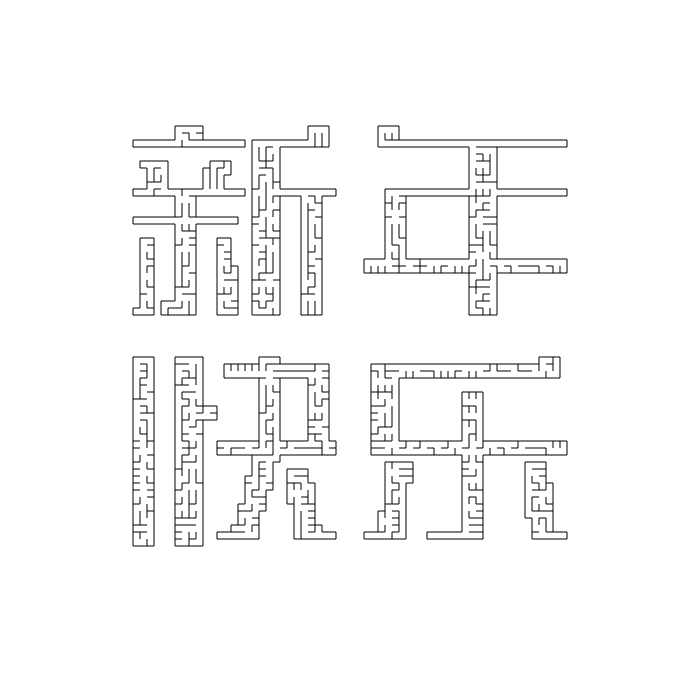
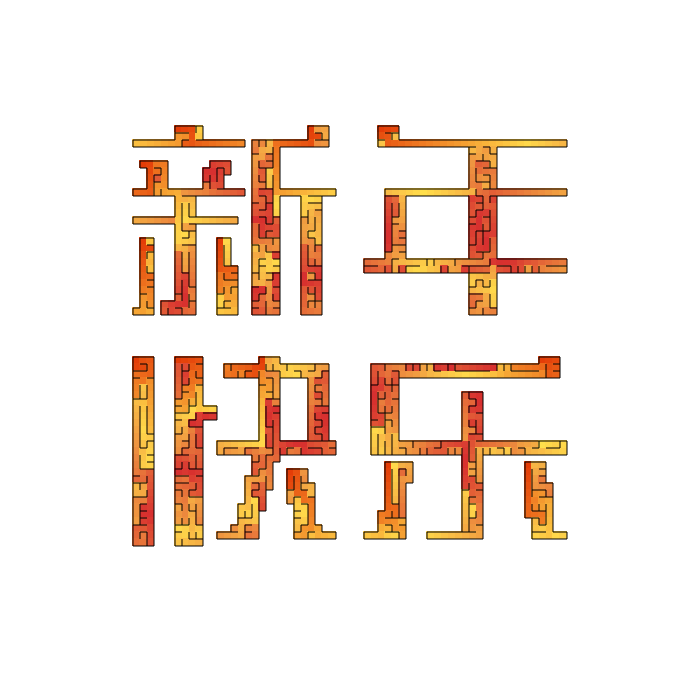
add color

diff --git a/Maze.js b/Maze.js
@@ -3,13 +3,15 @@ class Maze{
         this.N = n;
         this.record = null,
         this.shapeSize = shapeSize;
-        this.colorRecord = null;
-        this.colored = colored,
         this.shape = shape, // square, heart, mask
         this.ratio = null,
         this.offset = null,
         this.start = null,
         this.maskFunc = maskFunc;
+
+        //color
+        this.colorRecord = null;
+        this.colored = colored;
 
         // game information
         this.onGame = false;
@@ -78,10 +80,10 @@ class Maze{
             for (let i = 0; i < n * n; i++) {
                 if(!this.maskFunc(i, n, ratio, offset)){
                     adjList[i] = [];
-                    continue;
-                }
-                counter++;
-                adjList[i] =  this.makeAdjList(this.neighbors(i));     
+                }else{
+                    counter++;
+                    adjList[i] = this.makeAdjList(this.neighbors(i)); 
+                }       
             }
         }
 
@@ -91,17 +93,9 @@ class Maze{
             record[i] = [-1, -1, -1, -1];
         }
 
-        // pick a random node
-        // let start = Math.floor(Math.random() * n * n) % (n * n);
-
-        // while(this.shape !== 'square' && !this.maskFunc(start, n, ratio, offset)){
-        //     start = Math.floor(Math.random() * n * n) % (n * n);
-        // }
-
         const knownNodes = new Uint8Array(n * n);
         const visited = new Uint8Array(n * n);
         const starts = [];
-        // knownNodes[start] = 1;
 
         console.time('spanning tree generation');
 
@@ -158,7 +152,6 @@ class Maze{
             }
         }
 
-        
         console.timeEnd('spanning tree generation');
 
         this.record = record;
@@ -189,16 +182,60 @@ class Maze{
         return [r, g, b];
     }
 
-    renderColor(ctx, colorOption, colors){
+    renderColor(ctx, colors, rate){
+        const n = this.N;
+
         if(colors.length === 1 && this.shape === 'square'){
             const [r, g, b] = Maze.RGB(colors[0]);
             ctx.fillStyle = `rgb(${r}, ${g}, ${b})`;
             ctx.fillRect(0, 0, meta.width, meta.height);
+            return;
         }
+        const colorArr = colors.map(x => Maze.RGB(x));
+        const colorRecord = new Array(n * n);
+        colorRecord.fill([255, 255, 255])
+        for(const start of this.start){
+            let colorCounter = 0;
+            const len = colors.length;
+            const t = 700 / n;
+            let [r, g, b] = colorArr[0];
+            let deltaR = rate * (colorArr[(colorCounter + 1) % len][0] - r) / (n * 25);
+            let deltaG = rate * (colorArr[(colorCounter + 1) % len][1] - g) / (n * 25);
+            let deltaB = rate * (colorArr[(colorCounter + 1) % len][2] - b) / (n * 25);
+
+            const stack = [start];
+            const visited = new Int8Array(n * n);
+            let cur = start;
+            while(stack.length !== 0){
+                cur = stack.pop();
+                visited[cur] = 1;
+                stack.push(...(this.record[cur].filter(x => x !== -1 && !visited[x])));
+                ctx.fillStyle = `rgb(${r}, ${g}, ${b})`;
+                colorRecord[cur] = ['rgb', r, g, b];
+                ctx.fillRect((cur % n) * t - 1, Math.floor(cur / n) * t - 1, t + 1, t + 1);
+                r += deltaR;
+                g += deltaG;
+                b += deltaB;
+                const nc = (colorCounter + 1) % len;
+                if(Maze.colorExceeds(r, colorArr[nc][0], deltaR) ||
+                Maze.colorExceeds(g, colorArr[nc][1], deltaG) ||
+                Maze.colorExceeds(b, colorArr[nc][1], deltaB)){
+                    colorCounter = nc;
+                    const nnc = (nc + 1) % len;
+                    deltaR = rate * (colorArr[nnc][0] - r) / (n * 25);
+                    deltaG = rate * (colorArr[nnc][1] - g) / (n * 25);
+                    deltaB = rate * (colorArr[nnc][2] - b) / (n * 25);
+                }
+            }
+        }
+        this.colorRecord = colorRecord;
+    }
+
+    static colorExceeds(c1, c2, delta){
+        return (c1 >= c2 && delta > 0) || (c1 <= c2 && delta < 0) || c1 === c2;
     }
 
     render(ctx){
-        ctx.clearRect(0, 0, meta.width, meta.height);
         const n = this.N, record = this.record;
         const ratio = this.ratio, offset = this.offset;
         const t = 700 / n;
@@ -423,6 +460,32 @@ function initiate() {
     $('#winMessage').hide();
 }
 
+function addColor() {
+    const col = document.createElement('input');
+    col.type = 'color';
+    col.className = 'mr-1';
+    col.name = 'colorInput';
+
+    const div = document.createElement('div');
+    div.className = 'mb-1';
+    div.id = '' + performance.now();
+
+    const del = document.createElement('button');
+    del.innerHTML = 'Delete';
+    del.onclick = () => deleteColor(div.id);
+
+    div.appendChild(col);
+    div.appendChild(del);
+    
+    const board = document.getElementById('colorBoard');
+    board.appendChild(div);
+}
+
+function deleteColor(id){
+    const board = document.getElementById('colorBoard');
+    board.removeChild(document.getElementById(id));
+}
+
 function createMaze(){
     const n = parseInt(document.getElementById('rows').value);
     const shapes = document.getElementsByName('shape');
@@ -440,8 +503,22 @@ function createMaze(){
         func = insideImageMask;
     }
 
+    const colored = document.getElementById('color').checked;
+    const colorInputs = document.getElementsByName('colorInput');
+    const colors = [];
+    for(const c of colorInputs){
+        colors.push(c.value);
+    }
+    const rate = document.getElementById('colorRate').value;
+
     const maze = new Maze(n, false, shape, size, func);
     const ctx = document.getElementById('canvas').getContext('2d');
+
+    ctx.clearRect(0, 0, meta.width, meta.height);
+
+    if(colored){
+        maze.renderColor(ctx, colors, rate);
+    }
     maze.render(ctx);
 
     meta.created = true;

diff --git a/index.html b/index.html
@@ -14,12 +14,12 @@
 <body onkeydown="update(event)">
     <div class="container mt-4">
         <div class="row">
-            <div class="col-sm">
-                <ul class="list-group mt-4">
+            <div class="col-sm-4">
+                <ul class="list-group">
                     <li class="list-group-item"><input type="checkbox" id="color" checked
                             onchange="showAndHideColorBlocks()">Colored</li>
                     <li class="colorSelection list-group-item">
-                        Rate of change <input id="colorRange" class="ml-4" onchange="if(created){render();}"
+                        Rate of change <input id="colorRate" class="ml-4" onchange="if(created){render();}"
                             type="range" title="rate of change of color (responsive)"><br>
                         <input id="option1" type="radio" onchange="showAddColor()" checked name="option"><label
                             for="option1"> Arbitrary Color </label>
@@ -29,7 +29,7 @@
                     <li id="colorBoard" class="colorSelection list-group-item">
                         <div id="addColor"><button class="btn btn-primary mb-1" onclick="addColor()">Add more
                                 colors</button><br></div>
-                        <input id="colorInput" class="mb-1" title="change color (responsive)" type="color"
+                        <input class="mb-1" name="colorInput" title="change color (responsive)" type="color"
                             value="#f07070" onchange="if(created){render();}">
                         Choose color
                     </li>
@@ -96,7 +96,7 @@
         integrity="sha384-JjSmVgyd0p3pXB1rRibZUAYoIIy6OrQ6VrjIEaFf/nJGzIxFDsf4x0xIM+B07jRM"
         crossorigin="anonymous"></script>
     <!-- <script src="render.js?version=1"></script> -->
-    <script src="Maze.js?version=3"></script>
+    <script src="Maze.js?version=4"></script>
 </body>
 
 </html>
